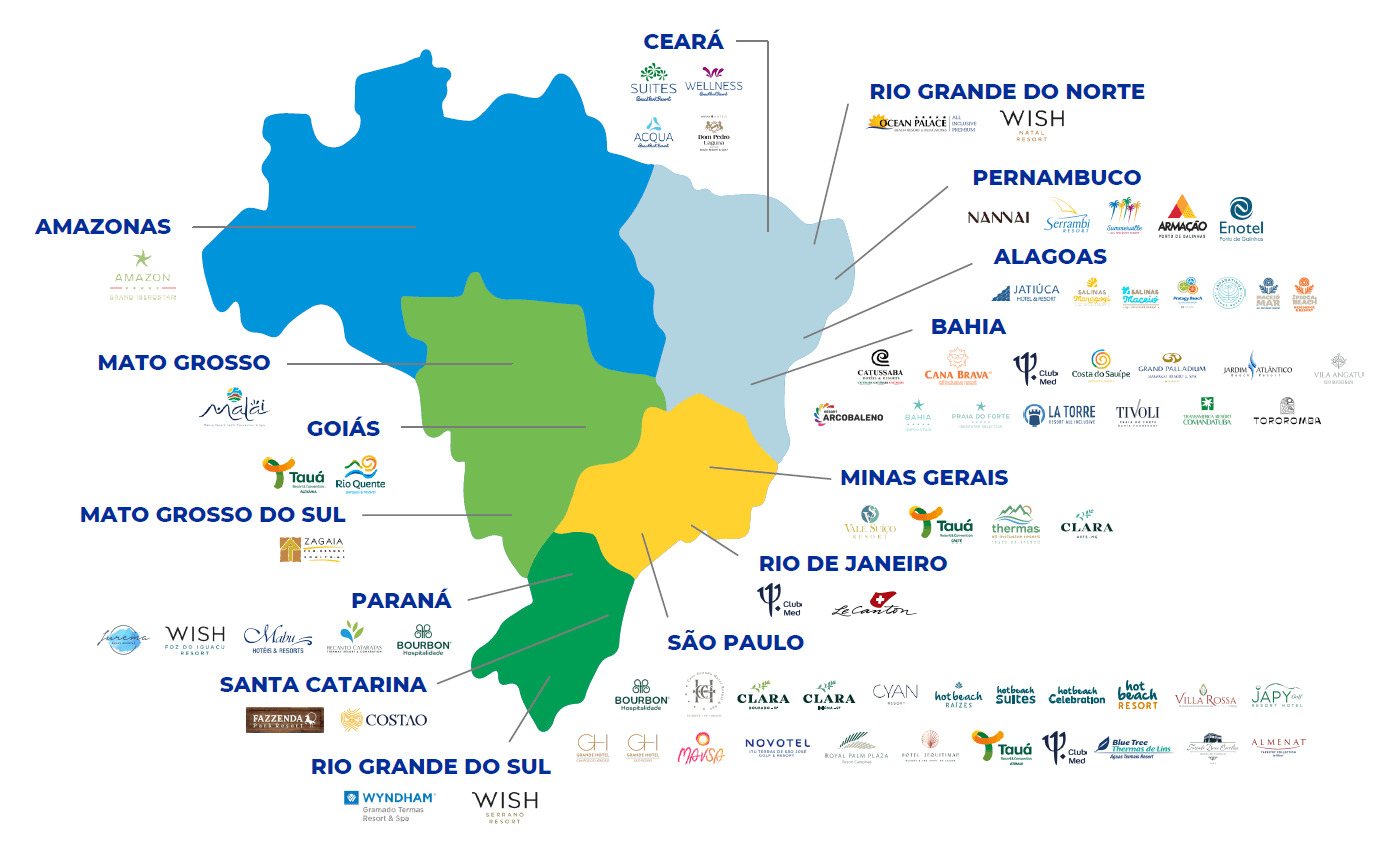
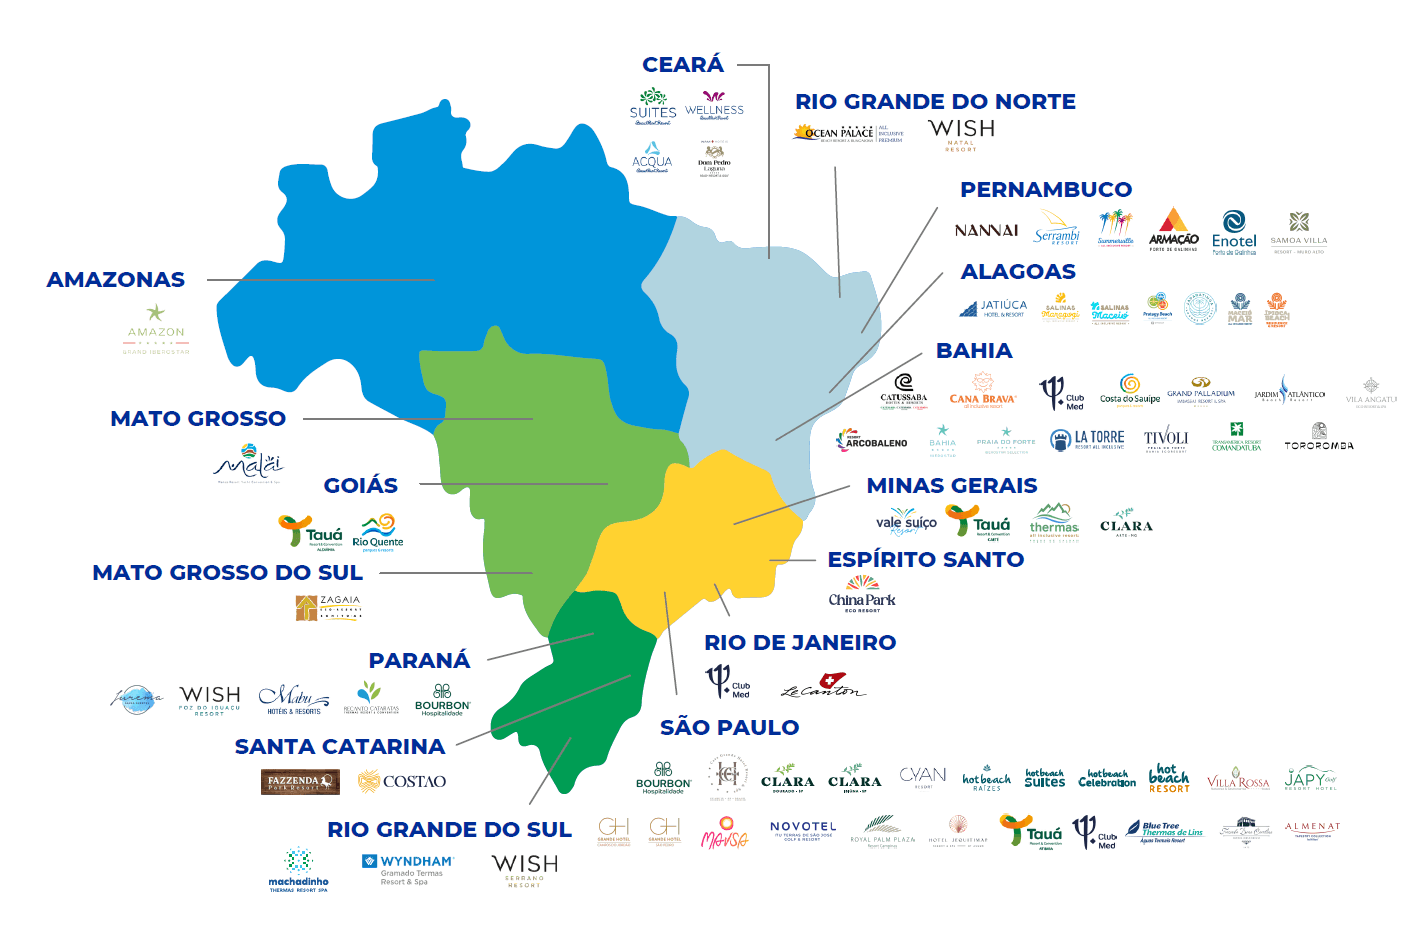
update

Changed region(s): [[0.0311, 0.0302, 0.9957, 0.9652], [0.4356, 0.3318, 0.5289, 0.5128]]

diff --git a/associados.html b/associados.html
@@ -161,7 +161,7 @@
                     <div class="col-md-2 m-b-20">
                         <div class="text-center">
                             <div class="counter display-4 d-block text-dark mb-0">
-                                <span data-speed="500" data-refresh-interval="50" data-to="77" data-from="1"></span>
+                                <span data-speed="500" data-refresh-interval="50" data-to="80" data-from="1"></span>
                             </div>
                             <p>Resorts Associados</p>
                         </div>
@@ -169,7 +169,7 @@
                     <div class="col-md-2 m-b-20">
                         <div class="text-center">
                             <div class="counter display-4 d-block text-dark mb-0">
-                                <span data-suffix=" mil" data-speed="500" data-refresh-interval="50" data-to="20"
+                                <span data-suffix=" mil" data-speed="500" data-refresh-interval="50" data-to="21"
                                     data-from="1"></span>
                             </div>
                             <p>Quartos</p>
@@ -187,7 +187,7 @@
                     <div class="col-md-2 m-b-20">
                         <div class="text-center">
                             <div class="counter display-4 d-block text-dark mb-0">
-                                <span data-speed="500" data-refresh-interval="50" data-to="15" data-from="1"></span>
+                                <span data-speed="500" data-refresh-interval="50" data-to="16" data-from="1"></span>
                             </div>
                             <p>Estados</p>
                         </div>
@@ -376,7 +376,7 @@
                                             </li>
                                             <li><a href="https://www.valesuico.com.br/" target="_blank">
                                                     <img src="images/associados/vale-suico-resort.png"
-                                                        alt="vale suiço resort"></a>
+                                                        alt="Vale Suíço Resort"></a>
                                             </li>
                                             <li><a href="https://reservas.tauaresorts.com.br/caete" target="_blank">
                                                     <img src="images/associados/taua-resort-caete.png"
@@ -386,6 +386,20 @@
                                                     target="_blank">
                                                     <img src="images/associados/thermas-all-inclusive.png"
                                                         alt="thermas all inclusive"></a>
+                                            </li>
+                                        </ul>
+                                    </div>
+                                </div>
+                                <div class="line"></div>
+                                <div id="ES" class="row">
+                                    <div class="col-lg-3 text-center text-bottom">
+                                        <h4>Espírito Santo</h4>
+                                    </div>
+                                    <div class="col-lg-9">
+                                        <ul class="grid grid-6-columns text-center">
+                                            <li><a href="https://chinapark.com.br/" target="_blank">
+                                                    <img src="images/associados/china-park-eco-resort.png"
+                                                        alt="China Park Eco Resort"></a>
                                             </li>
                                         </ul>
                                     </div>
@@ -433,6 +447,10 @@
                                     </div>
                                     <div class="col-lg-9">
                                         <ul class="grid grid-6-columns text-center">
+                                            <li><a href="https://machadinhothermas.com.br/" target="_blank">
+                                                    <img src="images/associados/machadinho-thermas-resort-spa.png"
+                                                        alt="Machadinho Thermas Resort Spa"></a>
+                                            </li>
                                             <li><a href="https://www.wishhotels.com.br/wish-serrano" target="_blank">
                                                     <img src="images/associados/wish-serrano.png"
                                                         alt="Wish Serrano"></a>
@@ -598,21 +616,26 @@
                                         <ul class="grid grid-6-columns text-center">
                                             <li><a href="https://armacaoresort.com/pt/" target="_blank">
                                                     <img src="images/associados/armacao-resort-porto-de-galinhas.png"
-                                                        alt=""></a>
+                                                        alt="Armação Resort Porto de Galinhas"></a>
                                             </li>
                                             <li><a href="https://enotelresort.com.br/" target="_blank">
                                                     <img src="images/associados/enotel-porto-de-galinhas.png"
-                                                        alt=""></a>
+                                                        alt="Enotel Porto de Galinhas"></a>
                                             </li>
                                             <li><a href="https://www.nannai.com.br/muro-alto/" target="_blank">
-                                                    <img src="images/associados/nannai.png" alt=""></a>
+                                                    <img src="images/associados/nannai.png" alt="Nannai"></a>
+                                            </li>
+                                            <li><a href="https://samoavillaresort.com.br/" target="_blank">
+                                                    <img src="images/associados/samoa-villa-resort.png"
+                                                        alt="Samoa Villa Resort"></a>
                                             </li>
                                             <li><a href="https://www.serrambiresort.com/" target="_blank">
-                                                    <img src="images/associados/serrambi-resort.png" alt=""></a>
+                                                    <img src="images/associados/serrambi-resort.png"
+                                                        alt="Serrambi Resort"></a>
                                             </li>
                                             <li><a href="https://www.summervilleresort.com.br/" target="_blank">
                                                     <img src="images/associados/summerville-all-inclusive-resort.png"
-                                                        alt=""></a>
+                                                        alt="Summerville All Inclusive Resort"></a>
                                             </li>
                                         </ul>
                                     </div>
@@ -718,25 +741,6 @@
                 </div>
         </section>
         <!-- end: Associados -->
-
-        <!-- Folders -->
-        <!-- <section id="folders" class="box-fancy section-fullwidth text-light no-padding">
-            <div class="row">
-                <div class="col-lg-6 text-center" style="background-color: #242F9B;">
-                    <h4 class="m-b-0">FOLDER 2022</h4>
-                    <h2 class="text-lg m-b-0">MICE</h2>
-                    <p>Os resorts são excelentes espaços <br>para realizar eventos.</p>
-                </div>
-                <div class="col-lg-6 text-center" style="background-color: #FAC213;">
-                    <h3>Viva uma experiência de evento em um resort e aproveite o melhor da gastronomia, entretenimento,
-                        conforto e natureza!</h3>
-                    <a class="btn btn-light btn-outline"
-                        href="https://www.resortsbrasil.com.br/wp-content/uploads/2022/02/FOLDER-DIGITAL-RESORTS-BRASIL-MICE.pdf"
-                        target="_blank">Baixar o folder</a>
-                </div>
-            </div>
-        </section> -->
-        <!-- end: Folders -->
 
         <!-- CTA -->
         <section id="cta" class="p-t-150 p-b-150">

diff --git a/en-us/associates.html b/en-us/associates.html
@@ -161,7 +161,7 @@
                     <div class="col-md-2 m-b-20">
                         <div class="text-center">
                             <div class="counter display-4 d-block text-dark mb-0">
-                                <span data-speed="500" data-refresh-interval="50" data-to="77" data-from="1"></span>
+                                <span data-speed="500" data-refresh-interval="50" data-to="80" data-from="1"></span>
                             </div>
                             <p>Resorts Associados</p>
                         </div>
@@ -169,7 +169,7 @@
                     <div class="col-md-2 m-b-20">
                         <div class="text-center">
                             <div class="counter display-4 d-block text-dark mb-0">
-                                <span data-suffix=" mil" data-speed="500" data-refresh-interval="50" data-to="20"
+                                <span data-suffix=" mil" data-speed="500" data-refresh-interval="50" data-to="21"
                                     data-from="1"></span>
                             </div>
                             <p>Quartos</p>
@@ -187,7 +187,7 @@
                     <div class="col-md-2 m-b-20">
                         <div class="text-center">
                             <div class="counter display-4 d-block text-dark mb-0">
-                                <span data-speed="500" data-refresh-interval="50" data-to="15" data-from="1"></span>
+                                <span data-speed="500" data-refresh-interval="50" data-to="16" data-from="1"></span>
                             </div>
                             <p>Estados</p>
                         </div>
@@ -392,6 +392,20 @@
                                         </ul>
                                     </div>
                                 </div>
+                                <div class="line"></div>
+                                <div id="ES" class="row">
+                                    <div class="col-lg-3 text-center text-bottom">
+                                        <h4>Espírito Santo</h4>
+                                    </div>
+                                    <div class="col-lg-9">
+                                        <ul class="grid grid-6-columns text-center">
+                                            <li><a href="https://chinapark.com.br/" target="_blank">
+                                                    <img src="../images/associados/china-park-eco-resort.png"
+                                                        alt="China Park Eco Resort"></a>
+                                            </li>
+                                        </ul>
+                                    </div>
+                                </div>
                             </div>
                             <!-- end: Sudeste -->
                             <!-- Sul -->
@@ -435,6 +449,10 @@
                                     </div>
                                     <div class="col-lg-9">
                                         <ul class="grid grid-6-columns text-center">
+                                            <li><a href="https://machadinhothermas.com.br/" target="_blank">
+                                                    <img src="../images/associados/machadinho-thermas-resort-spa.png"
+                                                        alt="Machadinho Thermas Resort Spa"></a>
+                                            </li>
                                             <li><a href="https://www.wishhotels.com.br/wish-serrano" target="_blank">
                                                     <img src="../images/associados/wish-serrano.png"
                                                         alt="Wish Serrano"></a>
@@ -600,21 +618,26 @@
                                         <ul class="grid grid-6-columns text-center">
                                             <li><a href="https://armacaoresort.com/pt/" target="_blank">
                                                     <img src="../images/associados/armacao-resort-porto-de-galinhas.png"
-                                                        alt=""></a>
+                                                        alt="Armação Resort Porto de Galinhas"></a>
                                             </li>
                                             <li><a href="https://enotelresort.com.br/" target="_blank">
                                                     <img src="../images/associados/enotel-porto-de-galinhas.png"
-                                                        alt=""></a>
+                                                        alt="Enotel Porto de Galinhas"></a>
                                             </li>
                                             <li><a href="https://www.nannai.com.br/muro-alto/" target="_blank">
-                                                    <img src="../images/associados/nannai.png" alt=""></a>
+                                                    <img src="../images/associados/nannai.png" alt="Nannai"></a>
+                                            </li>
+                                            <li><a href="https://samoavillaresort.com.br/" target="_blank">
+                                                    <img src="../images/associados/samoa-villa-resort.png"
+                                                        alt="Samoa Villa Resort"></a>
                                             </li>
                                             <li><a href="https://www.serrambiresort.com/" target="_blank">
-                                                    <img src="../images/associados/serrambi-resort.png" alt=""></a>
+                                                    <img src="../images/associados/serrambi-resort.png"
+                                                        alt="Serrambi Resort"></a>
                                             </li>
                                             <li><a href="https://www.summervilleresort.com.br/" target="_blank">
                                                     <img src="../images/associados/summerville-all-inclusive-resort.png"
-                                                        alt=""></a>
+                                                        alt="Summerville All Inclusive Resort"></a>
                                             </li>
                                         </ul>
                                     </div>

diff --git a/es-es/asociados.html b/es-es/asociados.html
@@ -161,7 +161,7 @@
                     <div class="col-md-2 m-b-20">
                         <div class="text-center">
                             <div class="counter display-4 d-block text-dark mb-0">
-                                <span data-speed="500" data-refresh-interval="50" data-to="77" data-from="1"></span>
+                                <span data-speed="500" data-refresh-interval="50" data-to="80" data-from="1"></span>
                             </div>
                             <p>Resorts Associados</p>
                         </div>
@@ -169,7 +169,7 @@
                     <div class="col-md-2 m-b-20">
                         <div class="text-center">
                             <div class="counter display-4 d-block text-dark mb-0">
-                                <span data-suffix=" mil" data-speed="500" data-refresh-interval="50" data-to="20"
+                                <span data-suffix=" mil" data-speed="500" data-refresh-interval="50" data-to="21"
                                     data-from="1"></span>
                             </div>
                             <p>Quartos</p>
@@ -187,7 +187,7 @@
                     <div class="col-md-2 m-b-20">
                         <div class="text-center">
                             <div class="counter display-4 d-block text-dark mb-0">
-                                <span data-speed="500" data-refresh-interval="50" data-to="15" data-from="1"></span>
+                                <span data-speed="500" data-refresh-interval="50" data-to="16" data-from="1"></span>
                             </div>
                             <p>Estados</p>
                         </div>
@@ -392,6 +392,20 @@
                                         </ul>
                                     </div>
                                 </div>
+                                <div class="line"></div>
+                                <div id="ES" class="row">
+                                    <div class="col-lg-3 text-center text-bottom">
+                                        <h4>Espírito Santo</h4>
+                                    </div>
+                                    <div class="col-lg-9">
+                                        <ul class="grid grid-6-columns text-center">
+                                            <li><a href="https://chinapark.com.br/" target="_blank">
+                                                    <img src="../images/associados/china-park-eco-resort.png"
+                                                        alt="China Park Eco Resort"></a>
+                                            </li>
+                                        </ul>
+                                    </div>
+                                </div>
                             </div>
                             <!-- end: Sudeste -->
                             <!-- Sul -->
@@ -435,6 +449,10 @@
                                     </div>
                                     <div class="col-lg-9">
                                         <ul class="grid grid-6-columns text-center">
+                                            <li><a href="https://machadinhothermas.com.br/" target="_blank">
+                                                    <img src="../images/associados/machadinho-thermas-resort-spa.png"
+                                                        alt="Machadinho Thermas Resort Spa"></a>
+                                            </li>
                                             <li><a href="https://www.wishhotels.com.br/wish-serrano" target="_blank">
                                                     <img src="../images/associados/wish-serrano.png"
                                                         alt="Wish Serrano"></a>
@@ -600,21 +618,26 @@
                                         <ul class="grid grid-6-columns text-center">
                                             <li><a href="https://armacaoresort.com/pt/" target="_blank">
                                                     <img src="../images/associados/armacao-resort-porto-de-galinhas.png"
-                                                        alt=""></a>
+                                                        alt="Armação Resort Porto de Galinhas"></a>
                                             </li>
                                             <li><a href="https://enotelresort.com.br/" target="_blank">
                                                     <img src="../images/associados/enotel-porto-de-galinhas.png"
-                                                        alt=""></a>
+                                                        alt="Enotel Porto de Galinhas"></a>
                                             </li>
                                             <li><a href="https://www.nannai.com.br/muro-alto/" target="_blank">
-                                                    <img src="../images/associados/nannai.png" alt=""></a>
+                                                    <img src="../images/associados/nannai.png" alt="Nannai"></a>
+                                            </li>
+                                            <li><a href="https://samoavillaresort.com.br/" target="_blank">
+                                                    <img src="../images/associados/samoa-villa-resort.png"
+                                                        alt="Samoa Villa Resort"></a>
                                             </li>
                                             <li><a href="https://www.serrambiresort.com/" target="_blank">
-                                                    <img src="../images/associados/serrambi-resort.png" alt=""></a>
+                                                    <img src="../images/associados/serrambi-resort.png"
+                                                        alt="Serrambi Resort"></a>
                                             </li>
                                             <li><a href="https://www.summervilleresort.com.br/" target="_blank">
                                                     <img src="../images/associados/summerville-all-inclusive-resort.png"
-                                                        alt=""></a>
+                                                        alt="Summerville All Inclusive Resort"></a>
                                             </li>
                                         </ul>
                                     </div>
